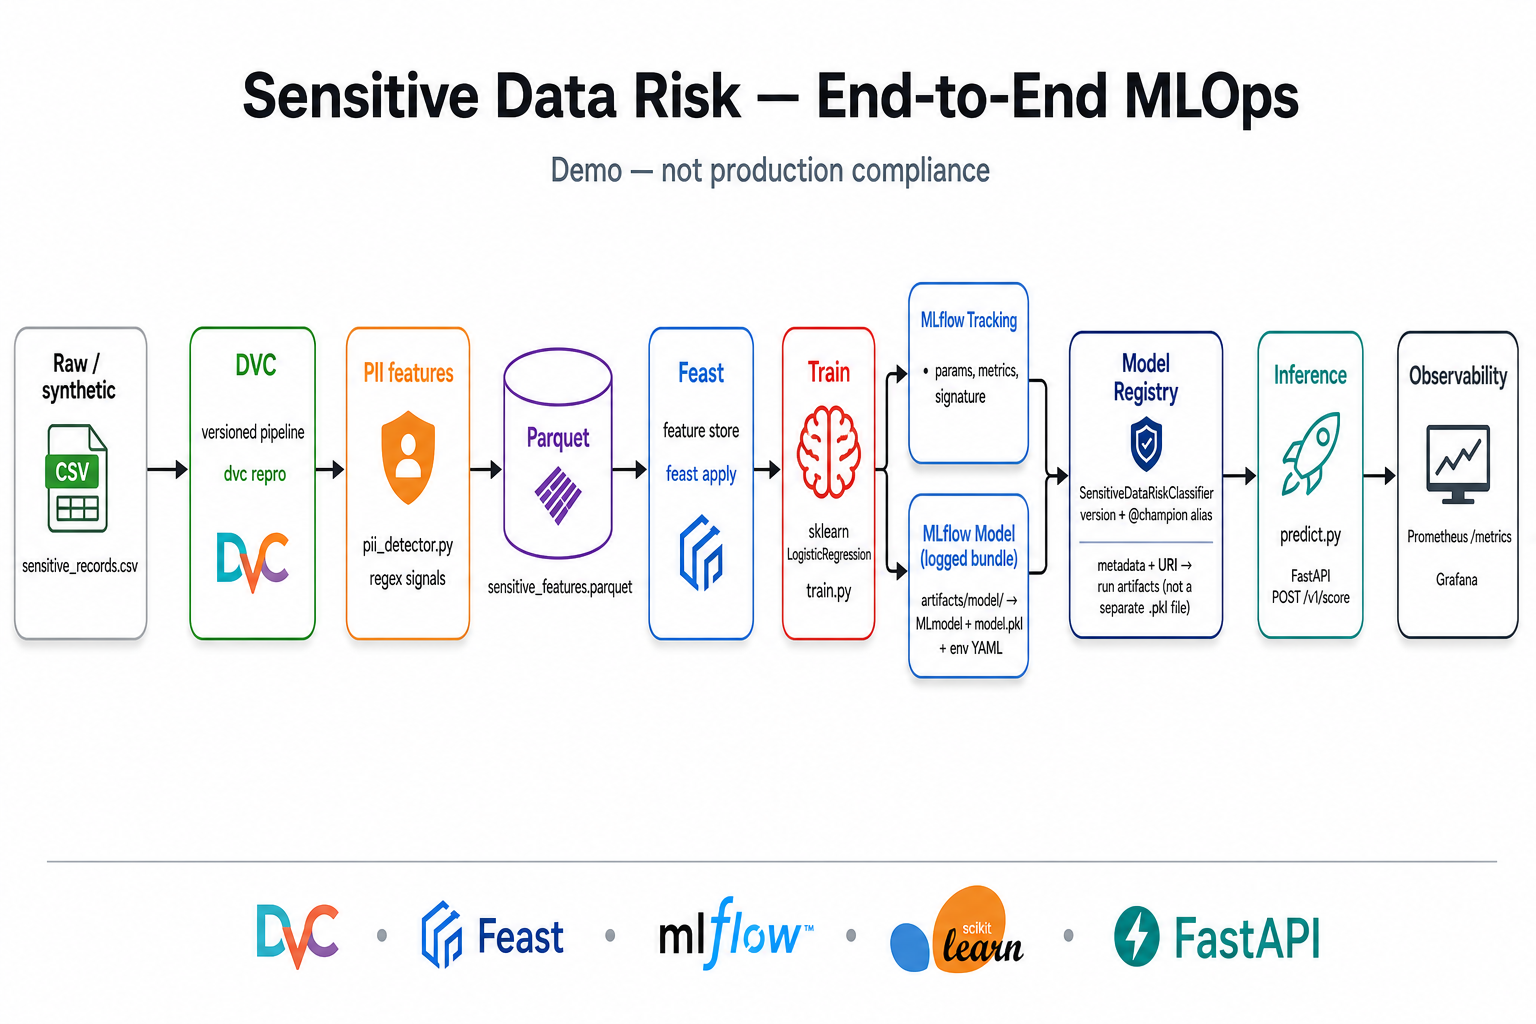
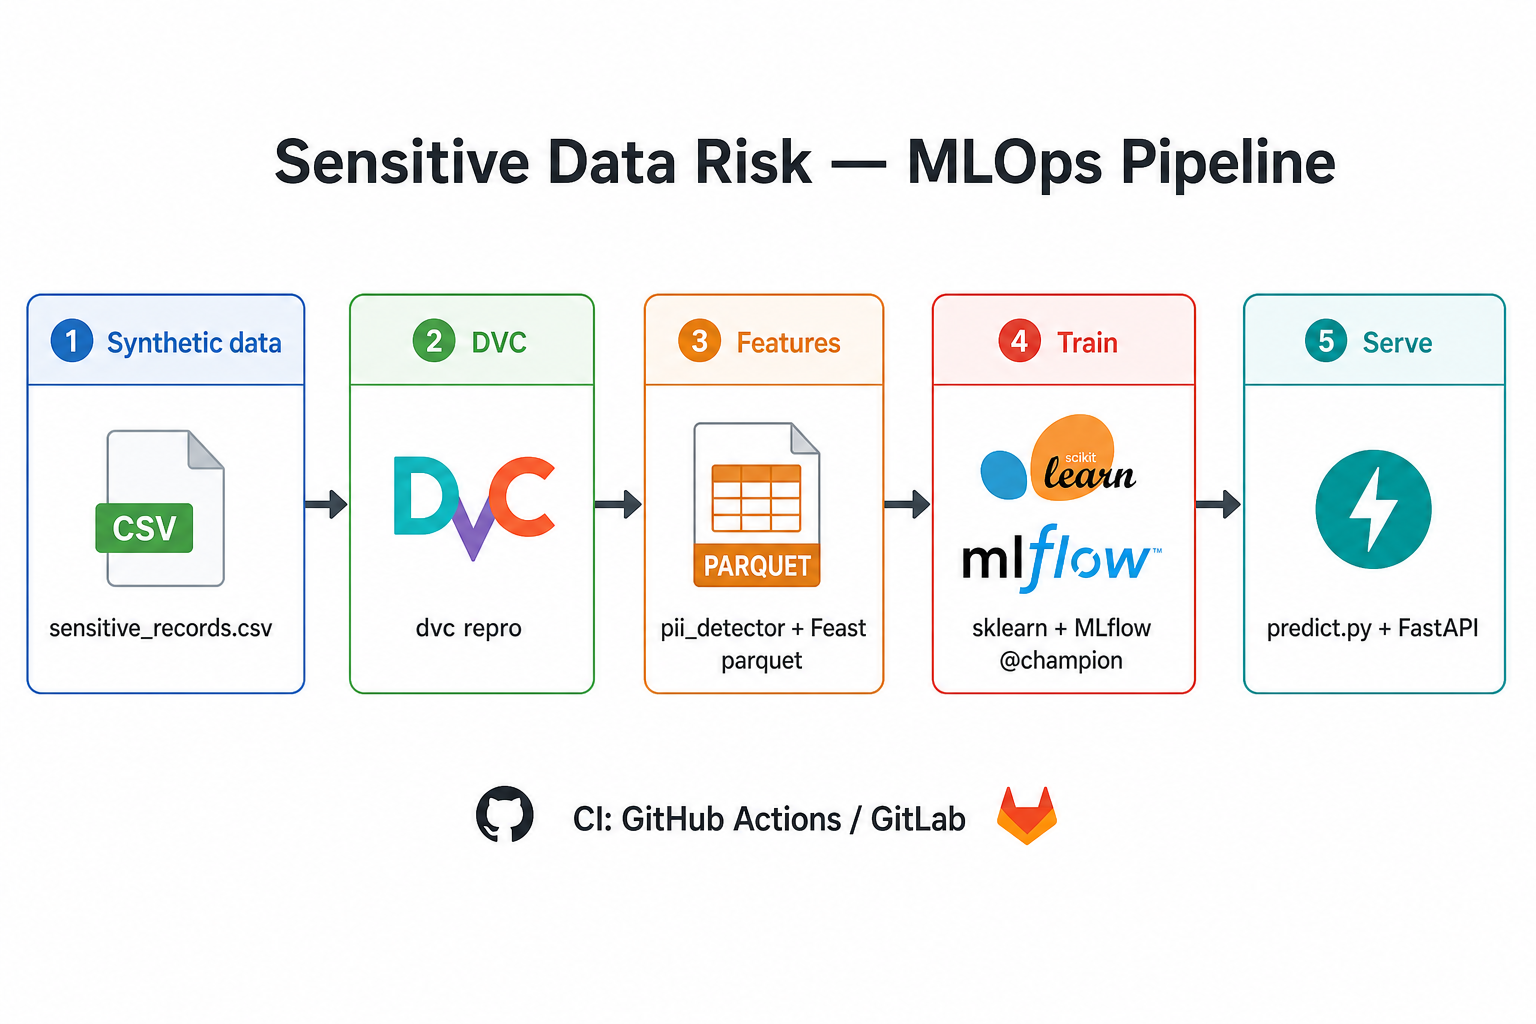
docs: README diagram + 4-step overview; enterprise CI hardening; refresh pipeline image

diff --git a/README.md b/README.md
@@ -1,8 +1,17 @@
-# Sensitive data risk MLOps (DPDP-style demo) — use case, how it works, and tests
+# Sensitive data risk — MLOps pipeline (demo)
 
-**Diagrams:** [PNG](docs/mlproject_pipeline_overview.png) · [Mermaid source](docs/pipeline_overview.mmd) · **Plain text:** [README.txt](README.txt) · **Push to GitHub:** [docs/GITHUB_SETUP.md](docs/GITHUB_SETUP.md)
+![End-to-end pipeline: data → DVC → features (Feast) → train (MLflow) → predict & API](docs/mlproject_pipeline_overview.png)
 
-This repo is a **minimal MLOps demo**: synthetic sensitive-looking text → **regex features** (`src/pii_detector.py`) → **Feast** offline store → **scikit-learn `LogisticRegression`** (risk **LOW / MEDIUM / HIGH**) → **MLflow** registry alias **`champion`** → batch **`predict.py`** and **FastAPI** (`src/serve.py`). Demo only — not legal compliance software.
+**How this pipeline works (four steps):**
+
+1. **Generate & version** — Synthetic `raw_text` and labels are written to CSV; **DVC** (`dvc.yaml`) chains **`generate_data` → `featurize` → `train`** so outputs stay reproducible.  
+2. **Feature store** — **`pii_detector.py`** turns text into numeric PII-style signals; **Feast** applies definitions and writes **`sensitive_features.parquet`** for training.  
+3. **Train & register** — **`LogisticRegression`** learns **LOW / MEDIUM / HIGH** risk from those features; **MLflow** logs the run and registers **`SensitiveDataRiskClassifier`** with alias **`champion`**.  
+4. **Consume** — **`predict.py`** scores CSV rows; **FastAPI** (`serve.py`) exposes **`/v1/score`**, **`/v1/analyze`**, and health/metrics — the same **`pipelines/run_pipeline.py --full-demo`** entrypoint runs in **GitHub Actions** (manual) and **GitLab CI** for enterprise builds.
+
+**Links:** [Plain-text README](README.txt) · [Mermaid source](docs/pipeline_overview.mmd) · [Push to GitHub](docs/GITHUB_SETUP.md)
+
+This repository is a **demo** (not certified compliance software).
 
 ### Fully automatic demo (one command)
 
@@ -22,7 +31,7 @@ If the environment already exists, you only need:
 .venv/bin/python pipelines/run_pipeline.py --full-demo
 ```
 
-That runs **`dvc repro`** (or the three scripts without DVC) and then **`src/predict.py`** on **`sample_input.csv`**. **GitLab CI** uses the same **`--full-demo`** flag (see **`.gitlab-ci.yml`**). **GitHub Actions:** workflow definition is kept as **`docs/github_actions_ml_demo.yml`** (copy to **`.github/workflows/ml-demo.yml`** when your PAT includes the **`workflow`** scope — see **`docs/GITHUB_SETUP.md`**).
+That runs **`dvc repro`** (or the three scripts without DVC) and then **`src/predict.py`** on **`sample_input.csv`**. **GitLab CI:** **`.gitlab-ci.yml`** runs **`pipelines/run_pipeline.py --full-demo`** on push/MR (45m timeout, **`PATH`** includes **`.venv/bin`** for **DVC**). **GitHub Actions:** **`.github/workflows/ml-demo.yml`** — **Actions → “ML demo pipeline” → Run workflow** (45m timeout, **`ubuntu-22.04`**, least-privilege **`permissions`**).
 
 ---
 
@@ -51,7 +60,7 @@ Nothing in this repo **automatically** retrains on a timer or on API traffic by 
 | **You (local / VM)** | Run **`.venv/bin/python pipelines/run_pipeline.py`**. If **`.dvc/`** exists, that script runs **`dvc repro`**, which reads **`dvc.yaml`** / **`dvc.lock`** and executes stages whose inputs or dependencies changed (`generate_data` → `featurize` → `train`). If **`.dvc/`** is missing, the script runs the same three steps as plain **`python`** calls in order (no DVC cache). |
 | **You (DVC only)** | Run **`.venv/bin/dvc repro`** yourself — same effect as above when DVC is initialized. |
 | **GitLab CI** | On a **Git push / merge request / manual pipeline** (per your GitLab project rules), the job in **`.gitlab-ci.yml`** (`sensitive_data_mlops`) creates a venv, installs deps, then runs **`pipelines/run_pipeline.py --full-demo`** (pipeline + **`predictions.csv`**). Set **`MLFLOW_TRACKING_URI`** in CI variables if you want runs on a shared MLflow server. |
-| **GitHub Actions** | Workflow YAML is **`docs/github_actions_ml_demo.yml`** (not under **`.github/workflows/`** so HTTPS pushes work without OAuth **`workflow`** scope). Copy it to **`.github/workflows/ml-demo.yml`** when you want Actions; then use a PAT with **`repo` + `workflow`** to push, or add the file in the GitHub UI. |
+| **GitHub Actions** | **`.github/workflows/ml-demo.yml`** — manual **Actions → “ML demo pipeline” → Run workflow** (`ubuntu-22.04`, 45m job timeout, `permissions: contents: read`). |
 | **One-shot script** | **`bash scripts/run_full_demo.sh`** or **`make demo`** — bootstraps venv + DVC (if needed) + pipeline + predict. |
 
 **Not a training trigger:** calling **FastAPI** (`/v1/score`, `/v1/analyze`) only **loads** the already-trained model and scores text — it does **not** start `train.py` or `dvc repro`.
@@ -66,7 +75,7 @@ You **do not** need both **GitHub** and **GitLab**. Pick **one** place to host t
 
 | If you use… | What runs in CI | What you do |
 |-------------|-----------------|--------------|
-| **GitHub** | **docs/github_actions_ml_demo.yml** — copy to **`.github/workflows/ml-demo.yml`** when you want Actions. | Create empty repo → **`git remote`** → **`git push`** (default branch without **`.github/workflows/`** avoids OAuth **`workflow`** scope errors). See **`docs/GITHUB_SETUP.md`**. |
+| **GitHub** | **`.github/workflows/ml-demo.yml`** + mirror **`docs/github_actions_ml_demo.yml`**. | Create repo → **`git push`**. Pushing workflow updates needs a credential with **`workflow`** scope (e.g. **`gh auth login`** with a classic PAT). See **`docs/GITHUB_SETUP.md`**. |
 | **GitLab** | **`.gitlab-ci.yml`** — job **`sensitive_data_mlops`** on **push / merge request** (depends on your project’s CI rules) | Create a new GitLab project → add **`origin`** → **`git push`**. Optional: **Settings → CI/CD → Variables** — set **`MLFLOW_TRACKING_URI`** to a shared MLflow server (otherwise CI uses `file://…/mlruns` in the job workspace). |
 
 **Pushing an existing clone (first time)**
@@ -83,12 +92,19 @@ git push -u origin main
 
 **Removing the CI you do not use (optional, for clarity)**  
 - GitHub-only: delete **`.gitlab-ci.yml`**.  
-- GitLab-only: delete **`docs/github_actions_ml_demo.yml`** and any **`.github/`** folder if present.
+- GitLab-only: delete **`.github/workflows/`** and **`docs/github_actions_ml_demo.yml`** if you want zero GitHub Actions files.
 
 **Other tools (optional, not required for the demo)**  
 - **MLflow tracking server**: set **`MLFLOW_TRACKING_URI`** in CI or your shell so runs and registry are shared (not only `./mlruns` on disk).  
 - **DVC remote** (S3, GCS, etc.): for versioning large **`data/`** outside Git; add **`dvc remote add`** and **`dvc push`** per [DVC remotes](https://dvc.org/doc/command-reference/remote).  
 - **Docker / Kubernetes**: wrap the same commands (`pipelines/run_pipeline.py`, `uvicorn`) in images — not defined in this minimal repo.
+
+---
+
+## Enterprise CI notes
+
+- **GitHub Actions** (`.github/workflows/ml-demo.yml`): **`ubuntu-22.04`**, **45-minute** job timeout, **`permissions: contents: read`**, **`pip`** cache keyed on **`requirements.txt`**, **`PYTHONUNBUFFERED`**, and strict **`bash -euxo pipefail`** on install. Set a repository **secret** **`MLFLOW_TRACKING_URI`** if MLflow runs on a shared server. For **self-hosted runners**, replace **`runs-on: ubuntu-22.04`** with your runner label(s).
+- **GitLab CI** (`.gitlab-ci.yml`): **45-minute** job timeout; **`PATH`** prepends **`.venv/bin`** so **`dvc init`** works after **`pip install`**. Configure **`MLFLOW_TRACKING_URI`** under **Settings → CI/CD → Variables** for enterprise tracking.
 
 ---
 

diff --git a/docs/GITHUB_SETUP.md b/docs/GITHUB_SETUP.md
@@ -28,61 +28,38 @@ git remote add origin https://github.com/YOUR_USER/REPO_NAME.git
 git push -u origin main
 ```
 
-**If `error: remote origin already exists`:** do not run `git remote add` again — set the URL instead:
+**If `error: remote origin already exists`:** use **`git remote set-url`** instead of **`add`**:
 
 ```bash
 git remote set-url origin https://github.com/YOUR_USER/REPO_NAME.git
 git push -u origin main
 ```
 
-**Typo check:** the branch name is **`main`** (full word), not `mai`.
+**Typo check:** the branch name is **`main`**, not `mai`.
 
-**SSH** (if you use keys). If **`origin` already exists**, use **`git remote set-url`** instead of **`add`**:
+**SSH** (if **`origin` already exists**):
 
 ```bash
 git remote set-url origin git@github.com:YOUR_USER/REPO_NAME.git
 git push -u origin main
 ```
 
-## 4) Enable GitHub Actions (after a successful push)
+### Pushing workflow files (`.github/workflows/`)
 
-This repository keeps the workflow definition as **`docs/github_actions_ml_demo.yml`** so **`git push`** works with typical HTTPS tokens (no **`workflow`** OAuth scope required for the code push).
+GitHub may reject pushes that add or change workflows unless your credential has the **`workflow`** scope. Use **`gh auth login`** and paste a **classic PAT** with **`repo`** + **`workflow`**, or push from the GitHub **web editor**.
 
-To turn on Actions:
+## 4) Enable GitHub Actions
 
-1. On GitHub: **Settings → Actions → General** — allow workflows.
-2. Locally (only when your credential has **`repo` + `workflow`**, or you will add the file on GitHub’s website):
+1. **Settings → Actions → General** — allow workflows (your org’s policy may require admin approval).
+2. **Actions** → **ML demo pipeline** → **Run workflow** (manual dispatch).
+3. Optional: set secret **`MLFLOW_TRACKING_URI`** for a shared MLflow server.
 
-```bash
-mkdir -p .github/workflows
-cp docs/github_actions_ml_demo.yml .github/workflows/ml-demo.yml
-git add .github/workflows/ml-demo.yml
-git commit -m "ci: add GitHub Actions ML demo workflow"
-git push -u origin main
-```
-
-Or: open **GitHub → Add file → Create new file** at **`.github/workflows/ml-demo.yml`**, paste the contents of **`docs/github_actions_ml_demo.yml`**, commit on **`main`**.
-
-3. **Actions** tab → **ML demo pipeline** → **Run workflow**.
+The workflow file is **`.github/workflows/ml-demo.yml`**. A copy for reference lives at **`docs/github_actions_ml_demo.yml`** (keep them in sync when editing).
 
 ## 5) Optional CI variables
 
-- **`MLFLOW_TRACKING_URI`**: set as a **repository secret** if you use a hosted MLflow server; otherwise CI writes under `mlruns/` in the job workspace (ephemeral).
+- **`MLFLOW_TRACKING_URI`**: repository **secret** for hosted MLflow; otherwise the job uses `file://…/mlruns` under the workspace.
 
 ## What is not in Git (by design)
 
-See **`.gitignore`**: `.venv/`, `mlruns/`, DVC cache, generated `data/raw/*.csv`, `data/processed/*.parquet`, `predictions.csv`, local Feast registry under `data/feast/`. CI regenerates these when the workflow runs.
-
-## 6) If you still see “workflow scope” on push
-
-That means something under **`.github/workflows/`** is still in your commits (for example an old **`ml-demo.yml`**). Remove it, commit, and push again:
-
-```bash
-git rm -f .github/workflows/ml-demo.yml 2>/dev/null || true
-rmdir .github/workflows 2>/dev/null || true
-git add -A
-git commit -m "ci: remove workflow from git to unblock push" || true
-git push -u origin main
-```
-
-Then use **section 4** to add the workflow with a PAT that has **`workflow`** scope or via the GitHub web UI.
+See **`.gitignore`**: `.venv/`, `mlruns/`, DVC cache, generated `data/raw/*.csv`, `data/processed/*.parquet`, `predictions.csv`, `data/feast/`. CI regenerates these when the workflow runs.
